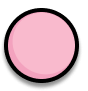
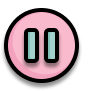
Final app uploaded: as per initial plan

Changed region(s): [[0.25, 0.3077, 0.6818, 0.7473]]

diff --git a/styles.css b/styles.css
@@ -7,14 +7,20 @@ body {
     height: 92.7vh; 
     margin: 0; 
     padding: 0;
-    background-image: url('graphics/Background.jpg');
+    background-image: url('graphics/Background2.png');
     background-size: 100% 100%; 
     background-position: center;
     background-repeat: no-repeat;
 }
 
-#audio-name {
+#audioNameBox {
+    position: relative;
+    display: flex;
+    justify-content: center;
+    align-items: center;
     margin-top: 45px;
+    margin-left: 45px;
+    width:max-content;
 }
 
 #coverLoader {
@@ -22,20 +28,63 @@ body {
 }
 
 #progressBar {
+    -webkit-appearance: none; /* Removes default styling */
     width:300px;
-    margin-top: 25px;
-    color: ffd3dd;
+    margin-bottom: 10px;
+    appearance: none;
+    height: 5px;
+    background: #F0F9F8; /* Changes the track color */
+    outline: none;
+    border-radius: 5px;
+    cursor: pointer;
+    border: 4px solid black;
+}
+
+/* Customizing the draggable thumb */
+#progressBar::-webkit-slider-thumb {
+    -webkit-appearance: none;
+    appearance: none;
+    width: 20px;
+    height: 20px;
+    background: #F3A2BE; /* Changes the thumb (circle) color */
+    border-radius: 50%;
+    cursor: pointer;
+    border: 4px solid black;
+}
+
+#progressBar::-moz-range-thumb {
+    width: 20px;
+    height: 20px;
+    background: #F3A2BE;
+    border-radius: 50%;
+    cursor: pointer;
+    border: 4px solid black;
+}
+
+
+/* #progressBar {
+    background: pink;
+    width:300px;
+    margin-bottom: 10px;
+    /* margin-top: 30px; */
+} */
+
+#progressBar::-webkit-slider-thumb {
+    -webkit-appearance: none;
+    background: hotpink;
 }
 
 .controls {
-    gap: 60px;
     background-image: url('graphics/Music-control-box.png') ;
     align-content: center;
     background-position: center;
     background-repeat: no-repeat;
 }
 
+
 .icon-btns {
+    /* display: flex; */
+    align-items: center;
     background: none; 
     border: none;
     padding: 0; 
@@ -43,40 +92,52 @@ body {
     margin-bottom: 45px;
 }
 
-input[type="range"] {
-    -webkit-appearance: none;
-    appearance: none;
+#playPauseButton img {
+    width: 90px;
+    height: 90px;
+    margin-left: 7px;
+    margin-bottom: 1px;
+}
+
+.icon-btns img {
+    width: 70px; 
+    height: 70px;
+}
+
+.icon-btns:hover {
+    transform: scale(1.1); /* Slightly enlarges the button */
+    filter: brightness(1.2); /* Makes it slightly brighter */
+}
+
+/* Optional: Active (Clicked) Effect */
+.icon-btns:active {
+    transform: scale(0.95); /* Shrinks slightly when clicked */
+    filter: brightness(0.9);
+}
+
+.button-container {
+    /* display: flex; */
+    justify-content: center; 
+    align-items: center;  
+    margin-top: 10px;
+}
+
+#musicName {
     width: 100%;
-    height: 6px;
-    background: black;
-    border-radius: 5px;
-    cursor: pointer;
-    outline: none;
-    overflow: hidden;
-}
-
-/* Visited (pink progress bar) */
-input[type="range"]::-webkit-slider-runnable-track {
-    background: #ffd3dd;
-}
-
-input[type="range"]::before {
-    content: "";
+    height: auto;
     display: block;
-    width: var(--progress);
-    height: 6px;
-    background: black;
-    position: absolute;
-    top: 0;
-    left: 0;
 }
 
-input[type="range"]::-webkit-slider-thumb {
-    -webkit-appearance: none;
-    width: 10px;
-    height: 20px;
-    background: #81bfb7;
-    border-radius: 50%;
-    position: relative;
-    cursor: pointer;
-}
+#audioName {
+    font-family: Courier New, monospace;
+    font-size: 25px;
+    position: absolute;
+    top: 50%;
+    left: 50%;
+    transform: translate(-50%, -50%);
+    font-weight: bold;
+    color: black;
+    text-shadow: 2px 2px 5px rgba(0, 0, 0, 0.5); /* Adds contrast */
+    text-align: center;
+    width: 80%;
+} 

diff --git a/index.html b/index.html
@@ -4,7 +4,7 @@
 <head>
     <meta charset="UTF-8">
     <meta name="viewport" content="width=device-width, initial-scale=1.0">
-    <title>Music player</title>
+    <title>Just your personal offline music player uwu</title>
     <script defer src="renderer.js"></script>
     <link rel="stylesheet" href="styles.css">
 </head>
@@ -13,21 +13,25 @@
     <div class="player-container">
 
         <audio id="audioPlayer"></audio>
-        <div id = "audio-name">
-            <!-- <div id="audioName"></div> -->
-            <img src = "graphics/Music Name.png" id = "music-name">
-            
+        <div id = "audioNameBox">
+            <div id="audioName"></div>
+            <img src = "graphics/Music Name.png" id = "musicName">
         </div>
-        <img src ="graphics/Music-cover.png">
-        <!-- <img id="coverLoader" alt = "Image" width = 300> -->
 
+        <img id="coverLoader" alt = "Image" >
+
+        <div class="progress-bar">
+            <input type="range" id="progressBar" value="0" min="0" max="100" step="0.1">
+        </div>
         
         <div class="controls">
-            <input type="range" id="progressBar" value="0" min="0" max="100" step="0.1">
+            
             <br/>
-            <button id="prevButton" class="icon-btns"><img src = "graphics/prev.png" ></button>
-            <button id="playPauseButton" class="icon-btns"><img src = "graphics/pause.png" ></button>
-            <button id="nextButton" class="icon-btns"><img src = "graphics/next.png" ></button>
+            <div class ="button-container">
+                <button id="prevButton" class="icon-btns"><img src = "graphics/prev.png" ></button>
+                <button id="playPauseButton" class="icon-btns"><img src = "graphics/pause.png" ></button>
+                <button id="nextButton" class="icon-btns"><img src = "graphics/next.png" ></button>
+            </div>
         </div>
 
     </div>

diff --git a/renderer.js b/renderer.js
@@ -6,6 +6,7 @@ const playPauseButton = document.getElementById("playPauseButton");
 const nextButton = document.getElementById("nextButton");
 const prevButton = document.getElementById("prevButton");
 const progressBar = document.getElementById("progressBar");
+const playPauseImage = playPauseButton.querySelector("img");
 
 audioPlayer.addEventListener("timeupdate", () => {
     if (audioPlayer.duration) {
@@ -27,16 +28,18 @@ ipcRenderer.on("load-cover", (event, filePath) => {
 
 ipcRenderer.on("load-track", (event, filePath, songName) => {
     audioPlayer.src = filePath;
-    // audioPlayer.play();
+    audioPlayer.play();
     audioName.textContent = songName;
 });
 
 ipcRenderer.on("toggle-playback", () => {
     if(audioPlayer.paused) {
         audioPlayer.play();
+        playPauseImage.src = "graphics/pause.png";
     }
     else {
         audioPlayer.pause();
+        playPauseImage.src = "graphics/play.png";
     }
 });
 
